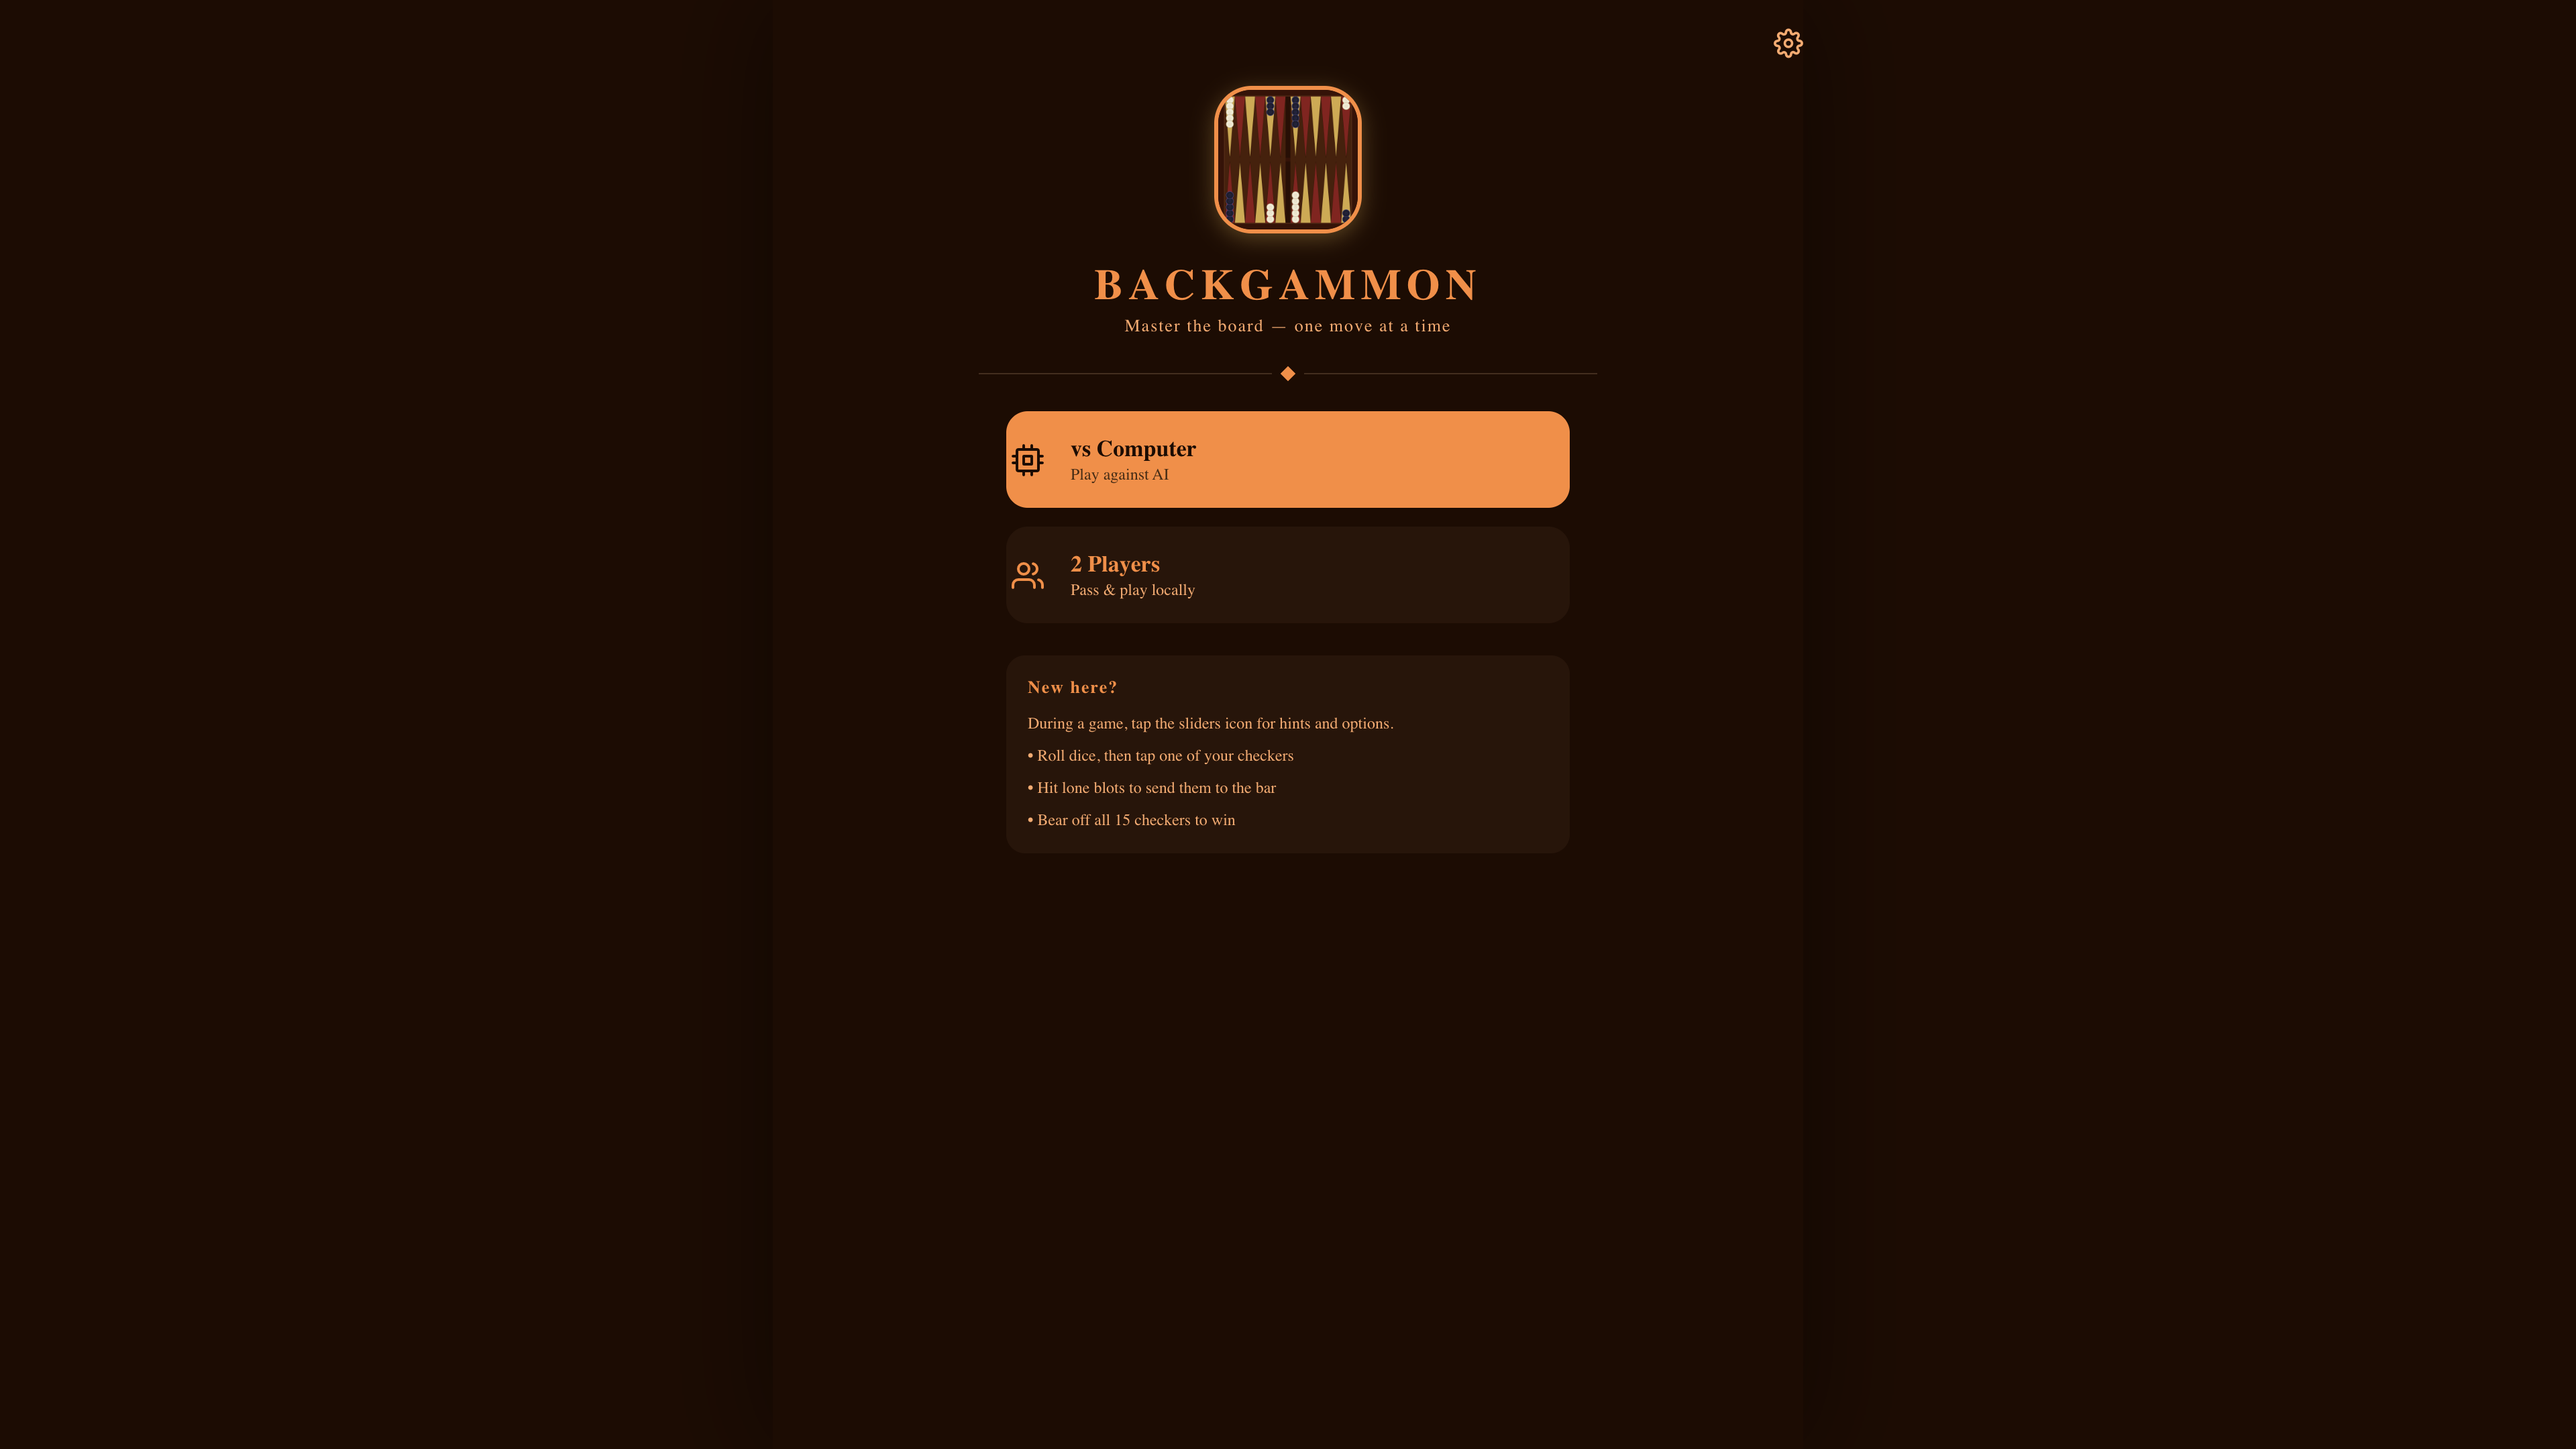
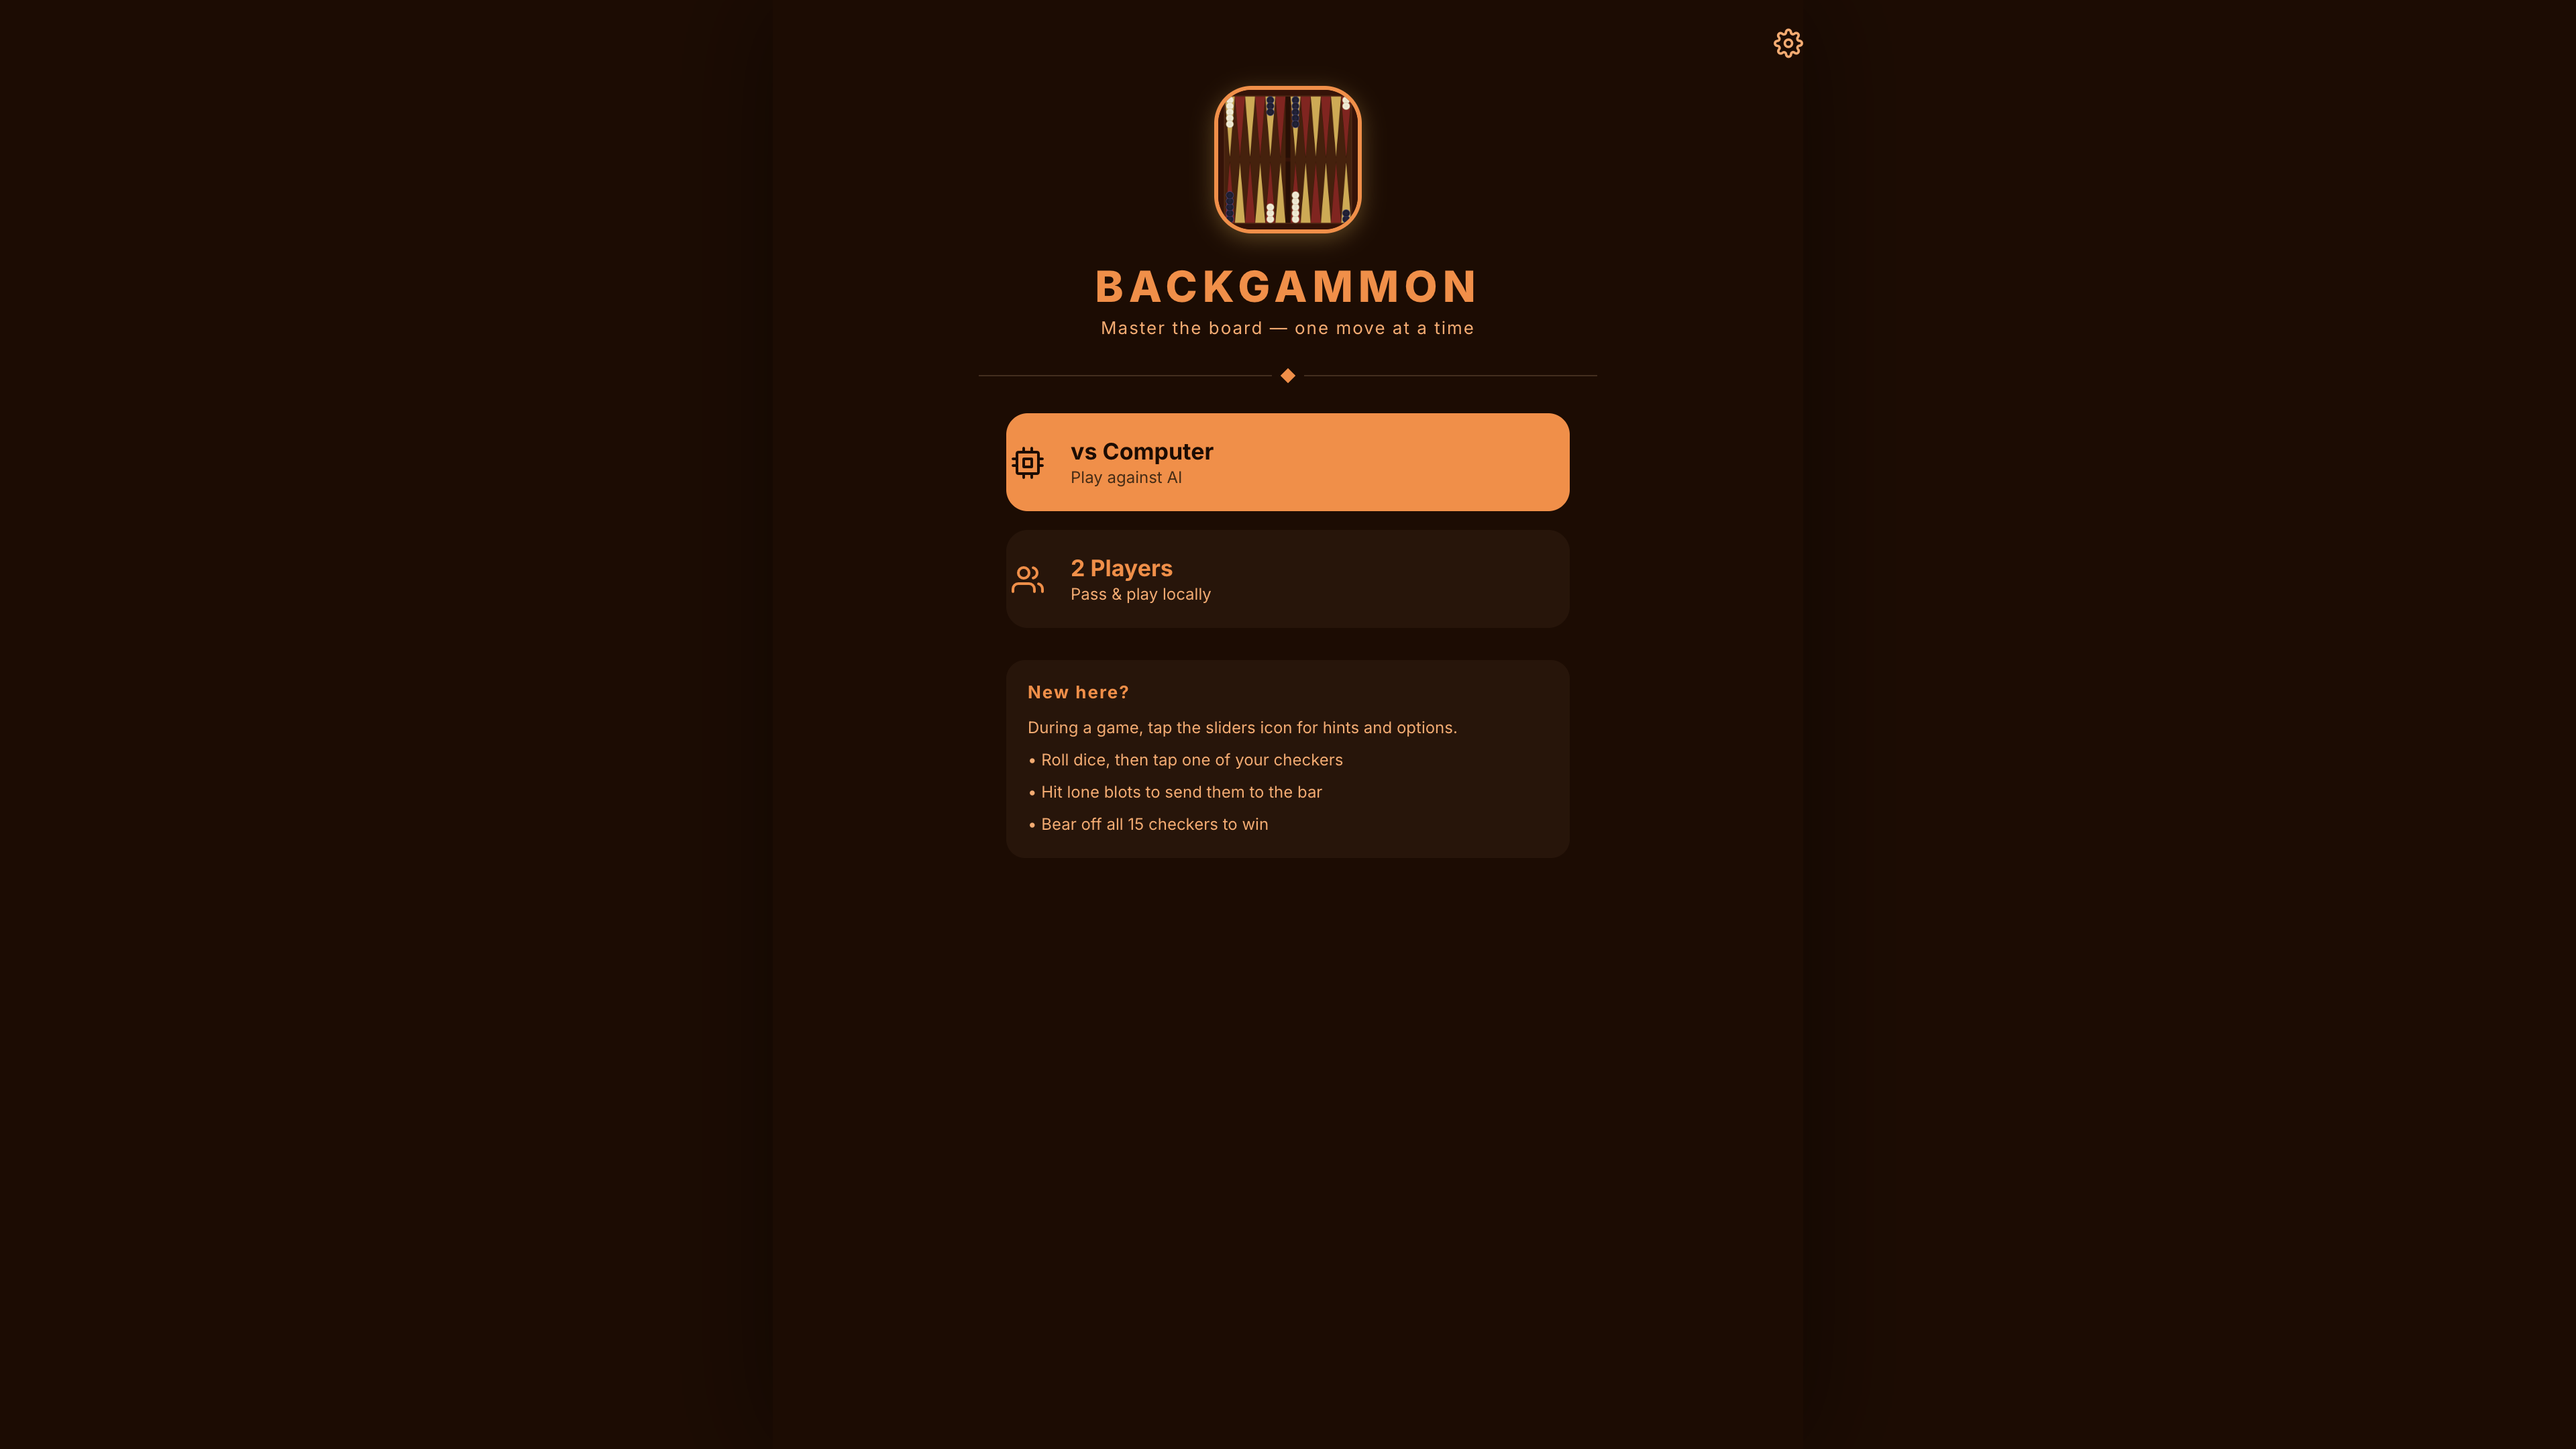
fix(web): use postscript font names so Inter actually renders
useFonts registers Inter as Inter_400Regular/Inter_700Bold etc., not a
unified "Inter" family. Using fontFamily: "Inter" + fontWeight caused
browser fallback to system serif. Add interFont() helper, load
Inter_800ExtraBold, and retake after screenshots.

diff --git a/src/lib/ui/fonts.ts b/src/lib/ui/fonts.ts
@@ -1,13 +1,49 @@
+import type { TextStyle } from 'react-native';
 import { Platform } from 'react-native';
 
-/** Inter regular — iOS uses the embedded postscript name; web/Android use "Inter" + fontWeight. */
+/** Inter regular — postscript name on iOS/web; family + weight on Android. */
 export const FONT_REGULAR = Platform.select({
   ios: 'Inter_400Regular',
-  default: 'Inter',
+  android: 'Inter',
+  default: 'Inter_400Regular',
 }) as string;
 
-/** Inter bold — iOS uses the embedded postscript name; web/Android use "Inter" + fontWeight. */
+/** Inter bold — postscript name on iOS/web; family + weight on Android. */
 export const FONT_BOLD = Platform.select({
   ios: 'Inter_700Bold',
-  default: 'Inter',
+  android: 'Inter',
+  default: 'Inter_700Bold',
 }) as string;
+
+/** Inter extra-bold — postscript name on iOS/web; family + weight on Android. */
+export const FONT_EXTRA_BOLD = Platform.select({
+  ios: 'Inter_700Bold',
+  android: 'Inter',
+  default: 'Inter_800ExtraBold',
+}) as string;
+
+type InterWeight = 'regular' | 'medium' | 'semibold' | 'bold' | 'extrabold';
+
+const INTER_POSTSCRIPT: Record<InterWeight, string> = {
+  regular: 'Inter_400Regular',
+  medium: 'Inter_500Medium',
+  semibold: 'Inter_600SemiBold',
+  bold: 'Inter_700Bold',
+  extrabold: 'Inter_800ExtraBold',
+};
+
+const INTER_ANDROID_WEIGHT: Record<InterWeight, TextStyle['fontWeight']> = {
+  regular: '400',
+  medium: '500',
+  semibold: '600',
+  bold: '700',
+  extrabold: '800',
+};
+
+/** Platform-correct Inter font style. Never combine postscript fontFamily with fontWeight. */
+export function interFont(weight: InterWeight): Pick<TextStyle, 'fontFamily' | 'fontWeight'> {
+  if (Platform.OS === 'android') {
+    return { fontFamily: 'Inter', fontWeight: INTER_ANDROID_WEIGHT[weight] };
+  }
+  return { fontFamily: INTER_POSTSCRIPT[weight] };
+}

diff --git a/src/features/game/home-screen.tsx b/src/features/game/home-screen.tsx
@@ -16,7 +16,7 @@ import { GAME_PALETTE } from '@/features/game/game-palette';
 import { useGame } from '@/features/game/use-game';
 import { hasSavedGame } from '@/lib/game/persistence';
 import { hapticLight } from '@/lib/haptics';
-import { FONT_BOLD, FONT_REGULAR } from '@/lib/ui/fonts';
+import { interFont } from '@/lib/ui/fonts';
 import { continuousRadius } from '@/lib/ui/native-styles';
 import { WEB_HEADER_INSET } from '@/lib/ui/web-layout';
 
@@ -158,10 +158,9 @@ const styles = StyleSheet.create({
   },
   title: {
     fontSize: 32,
-    fontWeight: '800',
     color: GAME_PALETTE.accent,
     letterSpacing: 4,
-    fontFamily: FONT_BOLD,
+    ...interFont('extrabold'),
     textAlign: 'center',
   },
   subtitle: {
@@ -169,7 +168,7 @@ const styles = StyleSheet.create({
     color: GAME_PALETTE.accentDim,
     marginTop: 4,
     letterSpacing: 1,
-    fontFamily: FONT_REGULAR,
+    ...interFont('regular'),
     textAlign: 'center',
   },
   dividerRow: {
@@ -231,13 +230,12 @@ const styles = StyleSheet.create({
   },
   btnLabel: {
     fontSize: 17,
-    fontWeight: '700',
-    fontFamily: FONT_BOLD,
+    ...interFont('bold'),
   },
   btnSub: {
     fontSize: 12,
     marginTop: 2,
-    fontFamily: FONT_REGULAR,
+    ...interFont('regular'),
   },
   rulesCard: {
     width: '100%',
@@ -252,15 +250,14 @@ const styles = StyleSheet.create({
   rulesTitle: {
     color: GAME_PALETTE.accent,
     fontSize: 13,
-    fontWeight: '700',
-    fontFamily: FONT_BOLD,
+    ...interFont('bold'),
     marginBottom: 4,
     letterSpacing: 1,
   },
   rulesText: {
     color: GAME_PALETTE.accentDim,
     fontSize: 12,
-    fontFamily: FONT_REGULAR,
+    ...interFont('regular'),
     lineHeight: 18,
   },
 });

diff --git a/src/features/game/game-screen-controls.tsx b/src/features/game/game-screen-controls.tsx
@@ -5,7 +5,7 @@ import { DiceDisplay } from '@/features/game/components/board/dice-display';
 import { GAME_PALETTE } from '@/features/game/game-palette';
 import { useGamePreferences } from '@/lib/game-preferences/use-game-preferences';
 import { hapticLight } from '@/lib/haptics';
-import { FONT_BOLD, FONT_REGULAR } from '@/lib/ui/fonts';
+import { interFont } from '@/lib/ui/fonts';
 import { continuousRadius } from '@/lib/ui/native-styles';
 
 type Props = {
@@ -174,8 +174,7 @@ const styles = StyleSheet.create({
   primaryBtnText: {
     color: GAME_PALETTE.text,
     fontSize: 16,
-    fontWeight: '600',
-    fontFamily: FONT_BOLD,
+    ...interFont('semibold'),
   },
   statusSlot: {
     height: ACTION_SLOT_HEIGHT,
@@ -185,7 +184,7 @@ const styles = StyleSheet.create({
   statusText: {
     color: GAME_PALETTE.textMuted,
     fontSize: 15,
-    fontFamily: FONT_REGULAR,
+    ...interFont('regular'),
   },
   caption: {
     marginTop: 6,
@@ -193,6 +192,6 @@ const styles = StyleSheet.create({
     color: GAME_PALETTE.textMuted,
     fontSize: 13,
     textAlign: 'center',
-    fontFamily: FONT_REGULAR,
+    ...interFont('regular'),
   },
 });

diff --git a/src/components/ui/text.tsx b/src/components/ui/text.tsx
@@ -1,4 +1,3 @@
-/* eslint-disable better-tailwindcss/no-unknown-classes */
 import type { TextProps, TextStyle } from 'react-native';
 import type { TxKeyPath } from '@/lib/i18n';
 import * as React from 'react';
@@ -6,6 +5,7 @@ import { I18nManager, Text as NNText, StyleSheet } from 'react-native';
 
 import { twMerge } from 'tailwind-merge';
 import { translate } from '@/lib/i18n';
+import { interFont } from '@/lib/ui/fonts';
 
 type Props = {
   className?: string;
@@ -22,7 +22,7 @@ export function Text({
   const textStyle = React.useMemo(
     () =>
       twMerge(
-        'font-inter text-base font-normal text-white',
+        'text-base font-normal text-white',
         className,
       ),
     [className],
@@ -33,6 +33,7 @@ export function Text({
       StyleSheet.flatten([
         {
           writingDirection: I18nManager.isRTL ? 'rtl' : 'ltr',
+          ...interFont('regular'),
         },
         style,
       ]) as TextStyle,

diff --git a/src/components/ui/modal.tsx b/src/components/ui/modal.tsx
@@ -39,7 +39,7 @@ import { Platform, Pressable, Text as RNText, StyleSheet, View } from 'react-nat
 import Animated, { FadeIn, FadeOut } from 'react-native-reanimated';
 import { Path, Svg } from 'react-native-svg';
 
-import { FONT_BOLD } from '@/lib/ui/fonts';
+import { interFont } from '@/lib/ui/fonts';
 
 import { Text } from './text';
 
@@ -262,9 +262,8 @@ const gameHandleStyles = StyleSheet.create({
     flex: 1,
     textAlign: 'center',
     fontSize: Platform.select({ ios: 17, android: 18, default: 17 }),
-    fontWeight: Platform.select({ ios: '600', android: '700', default: '600' }),
     color: '#F2EAD3',
-    fontFamily: FONT_BOLD,
+    ...interFont(Platform.OS === 'android' ? 'bold' : 'semibold'),
   },
 });
 

diff --git a/src/features/game/components/settings-ui/setting-toggle-row.tsx b/src/features/game/components/settings-ui/setting-toggle-row.tsx
@@ -3,7 +3,7 @@ import { StyleSheet, Switch, Text, View } from 'react-native';
 
 import { GAME_PALETTE } from '@/features/game/game-palette';
 import { hapticSelection } from '@/lib/haptics';
-import { FONT_REGULAR } from '@/lib/ui/fonts';
+import { interFont } from '@/lib/ui/fonts';
 import {
   SETTINGS_ICON_SLOT,
   SETTINGS_ROW_MIN_HEIGHT,
@@ -63,13 +63,12 @@ const styles = StyleSheet.create({
   label: {
     color: GAME_PALETTE.text,
     fontSize: 16,
-    fontWeight: '600',
-    fontFamily: FONT_REGULAR,
+    ...interFont('semibold'),
   },
   hint: {
     color: GAME_PALETTE.textMuted,
     fontSize: 12,
     marginTop: 2,
-    fontFamily: FONT_REGULAR,
+    ...interFont('regular'),
   },
 });

diff --git a/src/features/settings/components/settings-item.tsx b/src/features/settings/components/settings-item.tsx
@@ -6,7 +6,7 @@ import { Pressable, StyleSheet, Text, View } from 'react-native';
 import { GAME_PALETTE } from '@/features/game/game-palette';
 import { hapticLight } from '@/lib/haptics';
 import { translate } from '@/lib/i18n';
-import { FONT_REGULAR } from '@/lib/ui/fonts';
+import { interFont } from '@/lib/ui/fonts';
 import {
   SETTINGS_ROW_MIN_HEIGHT,
   SETTINGS_ROW_PADDING_H,
@@ -78,11 +78,11 @@ const styles = StyleSheet.create({
   label: {
     color: GAME_PALETTE.text,
     fontSize: 16,
-    fontFamily: FONT_REGULAR,
+    ...interFont('regular'),
   },
   value: {
     color: GAME_PALETTE.textMuted,
     fontSize: 15,
-    fontFamily: FONT_REGULAR,
+    ...interFont('regular'),
   },
 });

diff --git a/src/features/game/components/game-pip-status-bar.tsx b/src/features/game/components/game-pip-status-bar.tsx
@@ -2,7 +2,7 @@ import type { GameState } from '@/lib/game';
 import { StyleSheet, Text, View } from 'react-native';
 
 import { GAME_PALETTE } from '@/features/game/game-palette';
-import { FONT_REGULAR } from '@/lib/ui/fonts';
+import { interFont } from '@/lib/ui/fonts';
 
 type Props = {
   state: GameState;
@@ -69,13 +69,13 @@ const styles = StyleSheet.create({
   pipText: {
     color: GAME_PALETTE.textMuted,
     fontSize: 12,
-    fontFamily: FONT_REGULAR,
+    ...interFont('regular'),
     fontVariant: ['tabular-nums'],
   },
   winnerBadge: {
     color: '#E8C860',
     fontSize: 13,
-    fontWeight: '700',
+    ...interFont('bold'),
     width: '100%',
     textAlign: 'center',
   },

diff --git a/src/global.css b/src/global.css
@@ -6,7 +6,7 @@
 @theme {
   /* Font families */
   --font-family-sans: 'Inter', ui-sans-serif, system-ui, sans-serif;
-  --font-family-inter: 'Inter', ui-sans-serif, system-ui, sans-serif;
+  --font-family-inter: Inter_400Regular, ui-sans-serif, system-ui, sans-serif;
 
   /* Base colors */
   --color-white: #ffffff;
@@ -135,7 +135,7 @@
     height: 100%;
     margin: 0;
     background-color: #1e0c02;
-    font-family: 'Inter', ui-sans-serif, system-ui, sans-serif;
+    font-family: Inter_400Regular, ui-sans-serif, system-ui, sans-serif;
     -webkit-font-smoothing: antialiased;
     -moz-osx-font-smoothing: grayscale;
   }

diff --git a/src/lib/navigation/native-stack-options.ts b/src/lib/navigation/native-stack-options.ts
@@ -3,13 +3,12 @@ import type { NativeStackNavigationOptions } from 'expo-router';
 import { Platform } from 'react-native';
 import { GAME_PALETTE } from '@/features/game/game-palette';
 import { translate } from '@/lib/i18n';
-import { FONT_BOLD } from '@/lib/ui/fonts';
+import { interFont } from '@/lib/ui/fonts';
 
 const gameHeaderTitleStyle = {
   color: GAME_PALETTE.accent,
-  fontFamily: FONT_BOLD,
+  ...interFont('bold'),
   fontSize: 17,
-  fontWeight: Platform.select({ ios: undefined, default: '700' as const }),
 } as const;
 
 const gameHeaderStyle = {

diff --git a/src/app/_layout.tsx b/src/app/_layout.tsx
@@ -3,6 +3,7 @@ import {
   Inter_500Medium,
   Inter_600SemiBold,
   Inter_700Bold,
+  Inter_800ExtraBold,
   useFonts,
 } from '@expo-google-fonts/inter';
 import { BottomSheetModalProvider } from '@gorhom/bottom-sheet';
@@ -62,6 +63,7 @@ function Providers({ children }: { children: React.ReactNode }) {
     Inter_500Medium,
     Inter_600SemiBold,
     Inter_700Bold,
+    Inter_800ExtraBold,
   });
 
   useEffect(() => {
